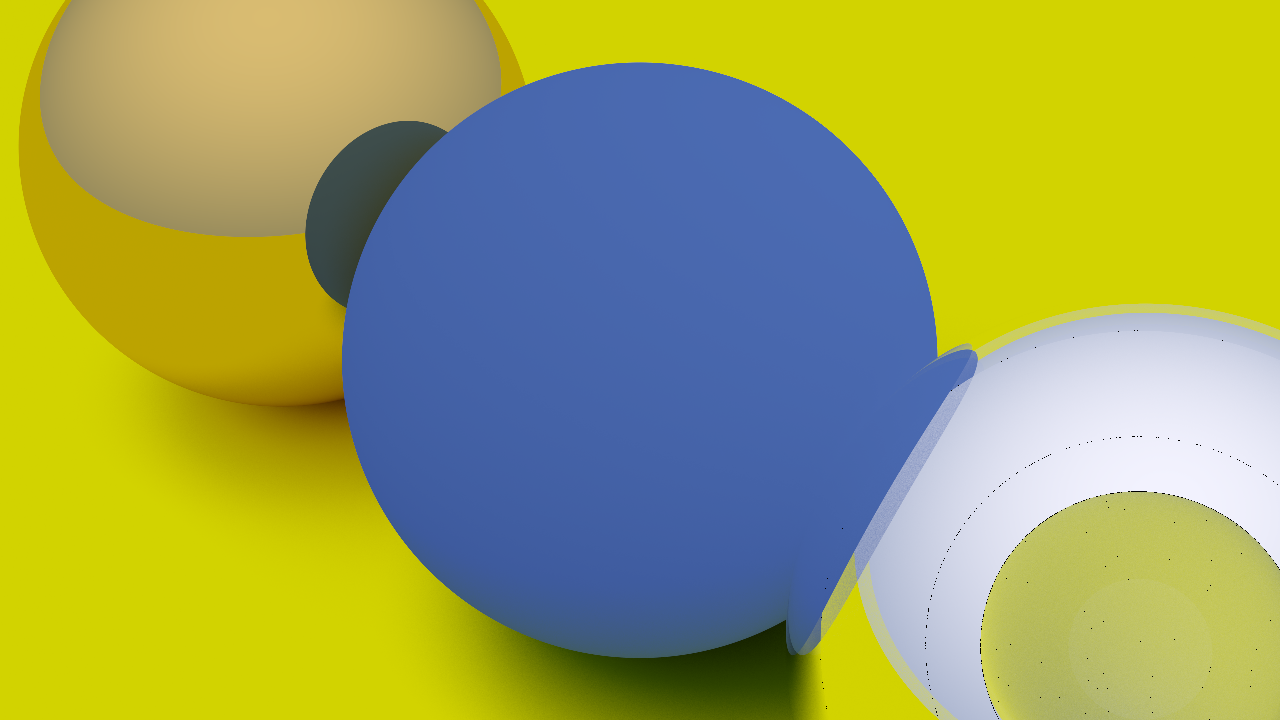
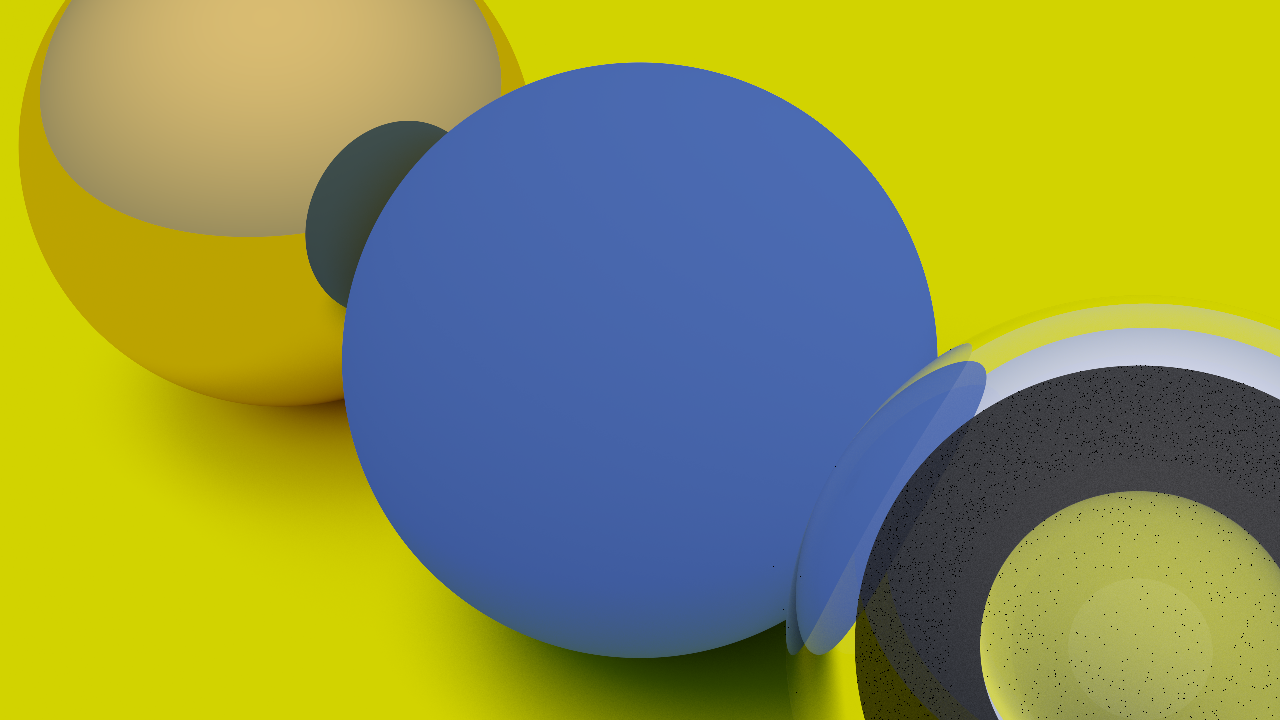
Tried re-writing the sampling code in kernel then copying v03 sampling code but that still didn't fix dielectrics issue.

Changed region(s): [[0.5938, 0.4278, 1.0, 1.0], [0.8125, 0.9167, 1.0, 1.0]]

diff --git a/main/FirstApp.cpp b/main/FirstApp.cpp
@@ -61,7 +61,7 @@ FirstApp::FirstApp() {
 	sphere_data.push_back(Sphere(glm::vec3( 0.0f, -100.5f, -1.0f), 100.0f, ground_mat->getPtr()));
 	sphere_data.push_back(Sphere(glm::vec3( 0.0f,    0.0f, -1.0f),   0.5f, center_mat->getPtr()));
 	sphere_data.push_back(Sphere(glm::vec3(-1.0f,    0.0f, -1.0f),   0.5f,   left_mat->getPtr()));
-	sphere_data.push_back(Sphere(glm::vec3(-1.0f,    0.0f, -1.0f),  -0.45f,   left_mat->getPtr()));
+	sphere_data.push_back(Sphere(glm::vec3(-1.0f,    0.0f, -1.0f),  -0.4f,   left_mat->getPtr()));
 	sphere_data.push_back(Sphere(glm::vec3( 1.0f,    0.0f, -1.0f),   0.5f,  right_mat->getPtr()));
 	sphere_list = std::make_unique<HittableList<Sphere>>(sphere_data);
 
@@ -77,7 +77,7 @@ void write_renderbuffer_png(std::string filepath, uint32_t width, uint32_t heigh
 void FirstApp::Run() {
 	renderer->Render();
 	renderer->DownloadRenderbuffer(host_output_framebuffer);
-	write_renderbuffer_png("../renders/test_028.png"s, render_width, render_height, host_output_framebuffer);
+	write_renderbuffer_png("../renders/test_029.png"s, render_width, render_height, host_output_framebuffer);
 }
 
 void write_renderbuffer_png(std::string filepath, uint32_t width, uint32_t height, glm::vec4* data) {
